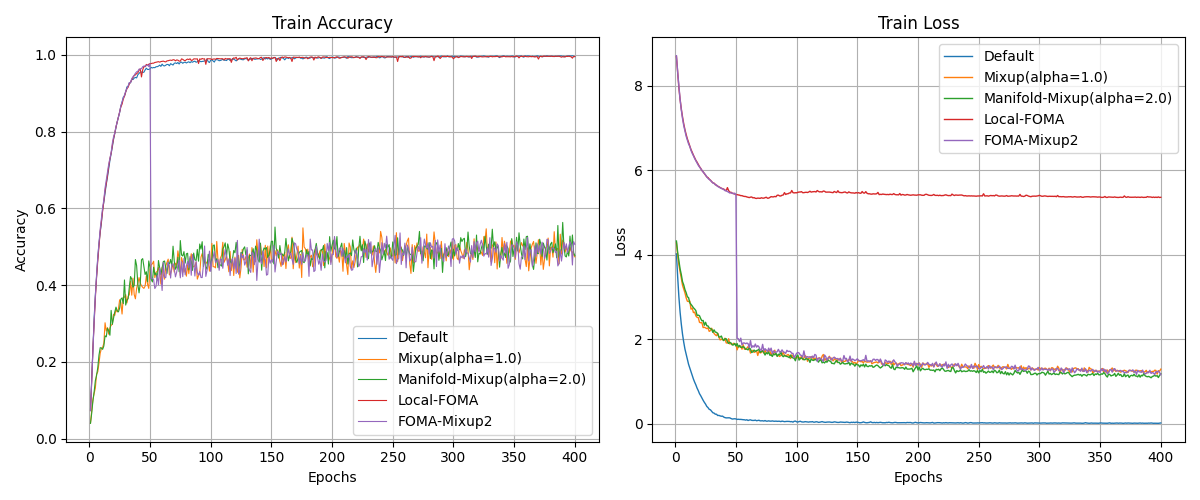
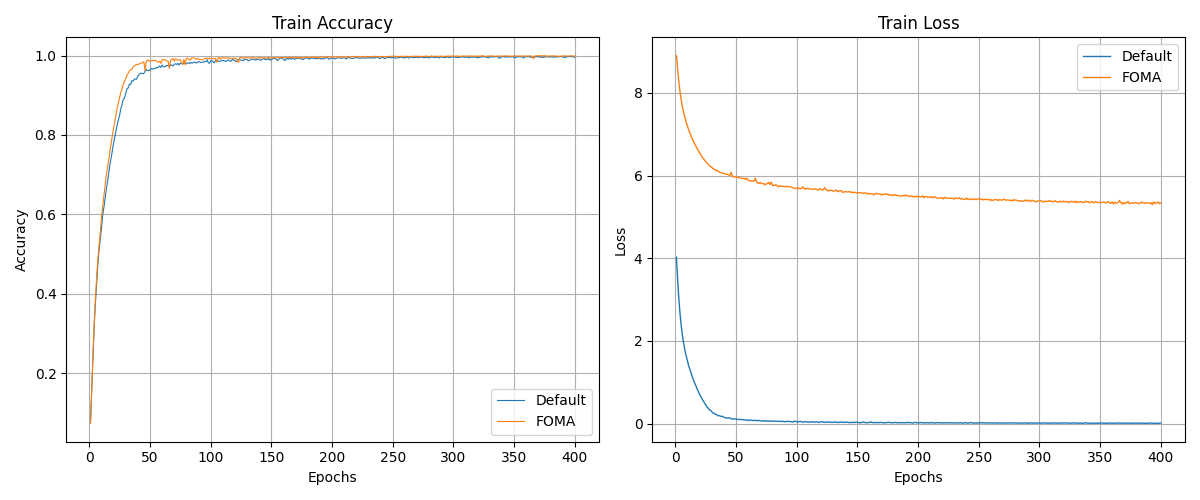
a

diff --git a/result.py b/result.py
@@ -7,8 +7,8 @@ import matplotlib.pyplot as plt
 def main():
     parser = argparse.ArgumentParser()
     parser.add_argument("--iteration",  type=int, default=1)
-    parser.add_argument("--epochs",     type=int, default=250)
-    parser.add_argument("--data_type",  type=str, default="cifar10",          choices=["stl10", "cifar100", "cifar10"])
+    parser.add_argument("--epochs",     type=int, default=400)
+    parser.add_argument("--data_type",  type=str, default="cifar100",          choices=["stl10", "cifar100", "cifar10"])
     parser.add_argument("--model_type", type=str, default="wide_resnet_28_10", choices=["resnet18", "resnet101", "wide_resnet_28_10"])
     args = parser.parse_args()
 
@@ -27,12 +27,12 @@ def main():
 
         # "Mixup+FOMA",
         # "Mixup(alpha=0.5)",
-        "Mixup",
+        # "Mixup",
         # "Mixup(alpha=2.0)",
         # "Mixup(alpha=5.0)",
         # "Manifold-Mixup(alpha=0.5)",
         # "Manifold-Mixup(alpha=1.0)",
-        "Manifold-Mixup",
+        # "Manifold-Mixup",
         # "Manifold-Mixup(alpha=5.0)",
         # "Mixup-Curriculum",
 
@@ -46,10 +46,10 @@ def main():
         # "Teacher-SK-Mixup-Curriculum",
 
         # "FOMA-Manifold-Mixup",
-        # "FOMA",
+        "FOMA",
         # "FOMA-scaleup-Mixup",
         # "Local-FOMA",
-        "FOMA-Mixup",
+        # "FOMA-Mixup",
         # "FOMA-knn-Curriculum",
         # "FOMA_latent_random",
         # "FOMA-scaleup",

diff --git a/src/utils.py b/src/utils.py
@@ -172,8 +172,13 @@ def train(model, train_loader, criterion, optimizer, device, augment, num_classe
             preds = model(mixed_x, labels, device, augment, aug_ok)
             loss = mixup_criterion(criterion, preds, y_a, y_b, lam)
 
-        elif augment == "Mixup+FOMA":
-            loss, preds = compute_hybrid_loss(model, images, labels)
+        elif augment == "Mixup-FOMA":
+            if epochs < 300:
+                images, y_a, y_b, lam = mixup_data(images, labels, 1.0, device)
+                preds = model(images, labels, device, augment, aug_ok)
+                loss = mixup_criterion(criterion, preds, y_a, y_b, lam)
+            else:
+                loss, preds = compute_foma_loss(model, images, labels, lambda_almp=1.0, device=device, scaleup=False)
         
         elif augment == "FOMix":
             loss, preds = compute_fomix_loss(model, images, labels)

diff --git a/train.py b/train.py
@@ -19,7 +19,7 @@ from torch.utils.data import DataLoader, random_split, Subset
 from src.methods.foma import foma
 
 augmentations = [
-    "Default",
+    # "Default",
     # "Conf-Mixup",
 
     # "Mixup-FOMA",
@@ -29,7 +29,8 @@ augmentations = [
     # "SVD",
     # "Cholesky",
 
-    "Mixup",
+    # "Mixup",
+    "Mixup-FOMA"
 
     # "CutMix",
     # "AugMix",
@@ -55,14 +56,14 @@ augmentations = [
     # "Mixup(alpha=2.0)",
     # "Mixup(alpha=5.0)",
 
-    "FOMA-Mixup",
+    # "FOMA-Mixup",
     # "FOMA-Mixup2",
     # "FOMA-scaleup-Mixup",
     # "FOMA-Manifold-Mixup",
     # "FOMA-scaleup"
     # "Mixup+FOMA",
     # "FOMix",
-    "Local-FOMA",
+    # "Local-FOMA",
     # "FOMA",
     # "FOMA-knn-Curriculum",
 
